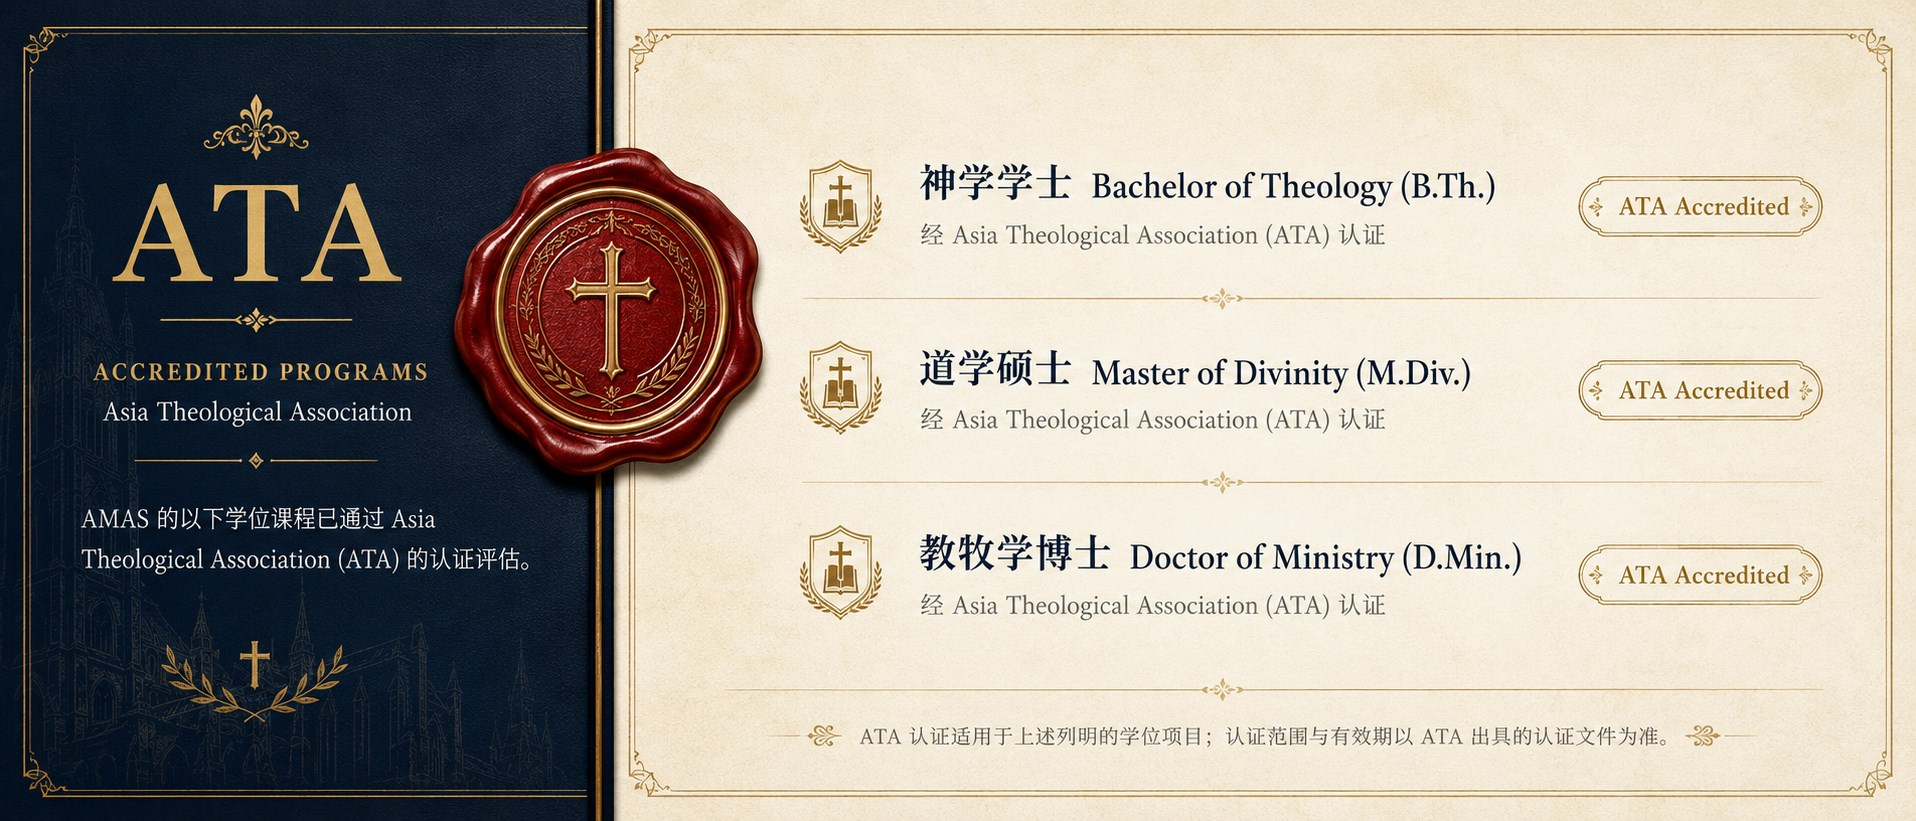
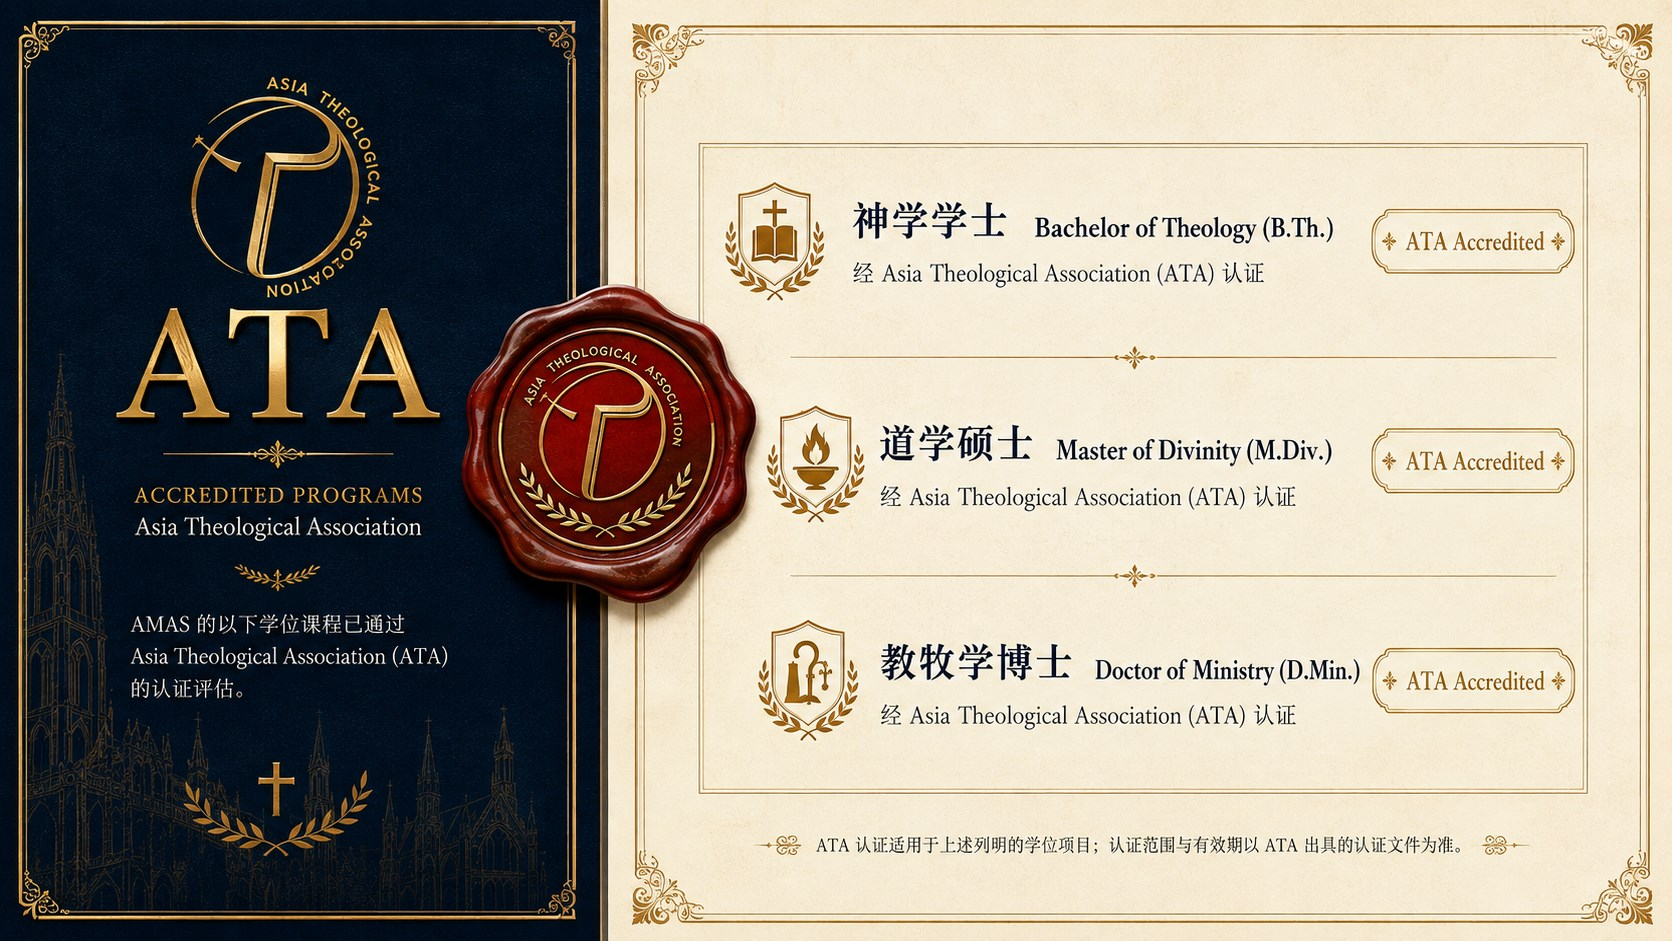
替换 ATA 认证证书图为含官方标志的新版

diff --git a/index.html b/index.html
@@ -261,7 +261,7 @@
         </div>
       </div>
       <figure class="accred-cert reveal">
-        <img src="assets/img/ata-accreditation.jpg" alt="ATA 认证项目：神学学士 Bachelor of Theology (B.Th.)、道学硕士 Master of Divinity (M.Div.)、教牧学博士 Doctor of Ministry (D.Min.)，均经 Asia Theological Association (ATA) 认证；认证范围与有效期以 ATA 出具的认证文件为准。" width="1916" height="821" decoding="async">
+        <img src="assets/img/ata-accreditation.jpg" alt="ATA 认证项目：神学学士 Bachelor of Theology (B.Th.)、道学硕士 Master of Divinity (M.Div.)、教牧学博士 Doctor of Ministry (D.Min.)，均经 Asia Theological Association (ATA) 认证；认证范围与有效期以 ATA 出具的认证文件为准。" width="1672" height="941" decoding="async">
       </figure>
     </div>
   </section>
